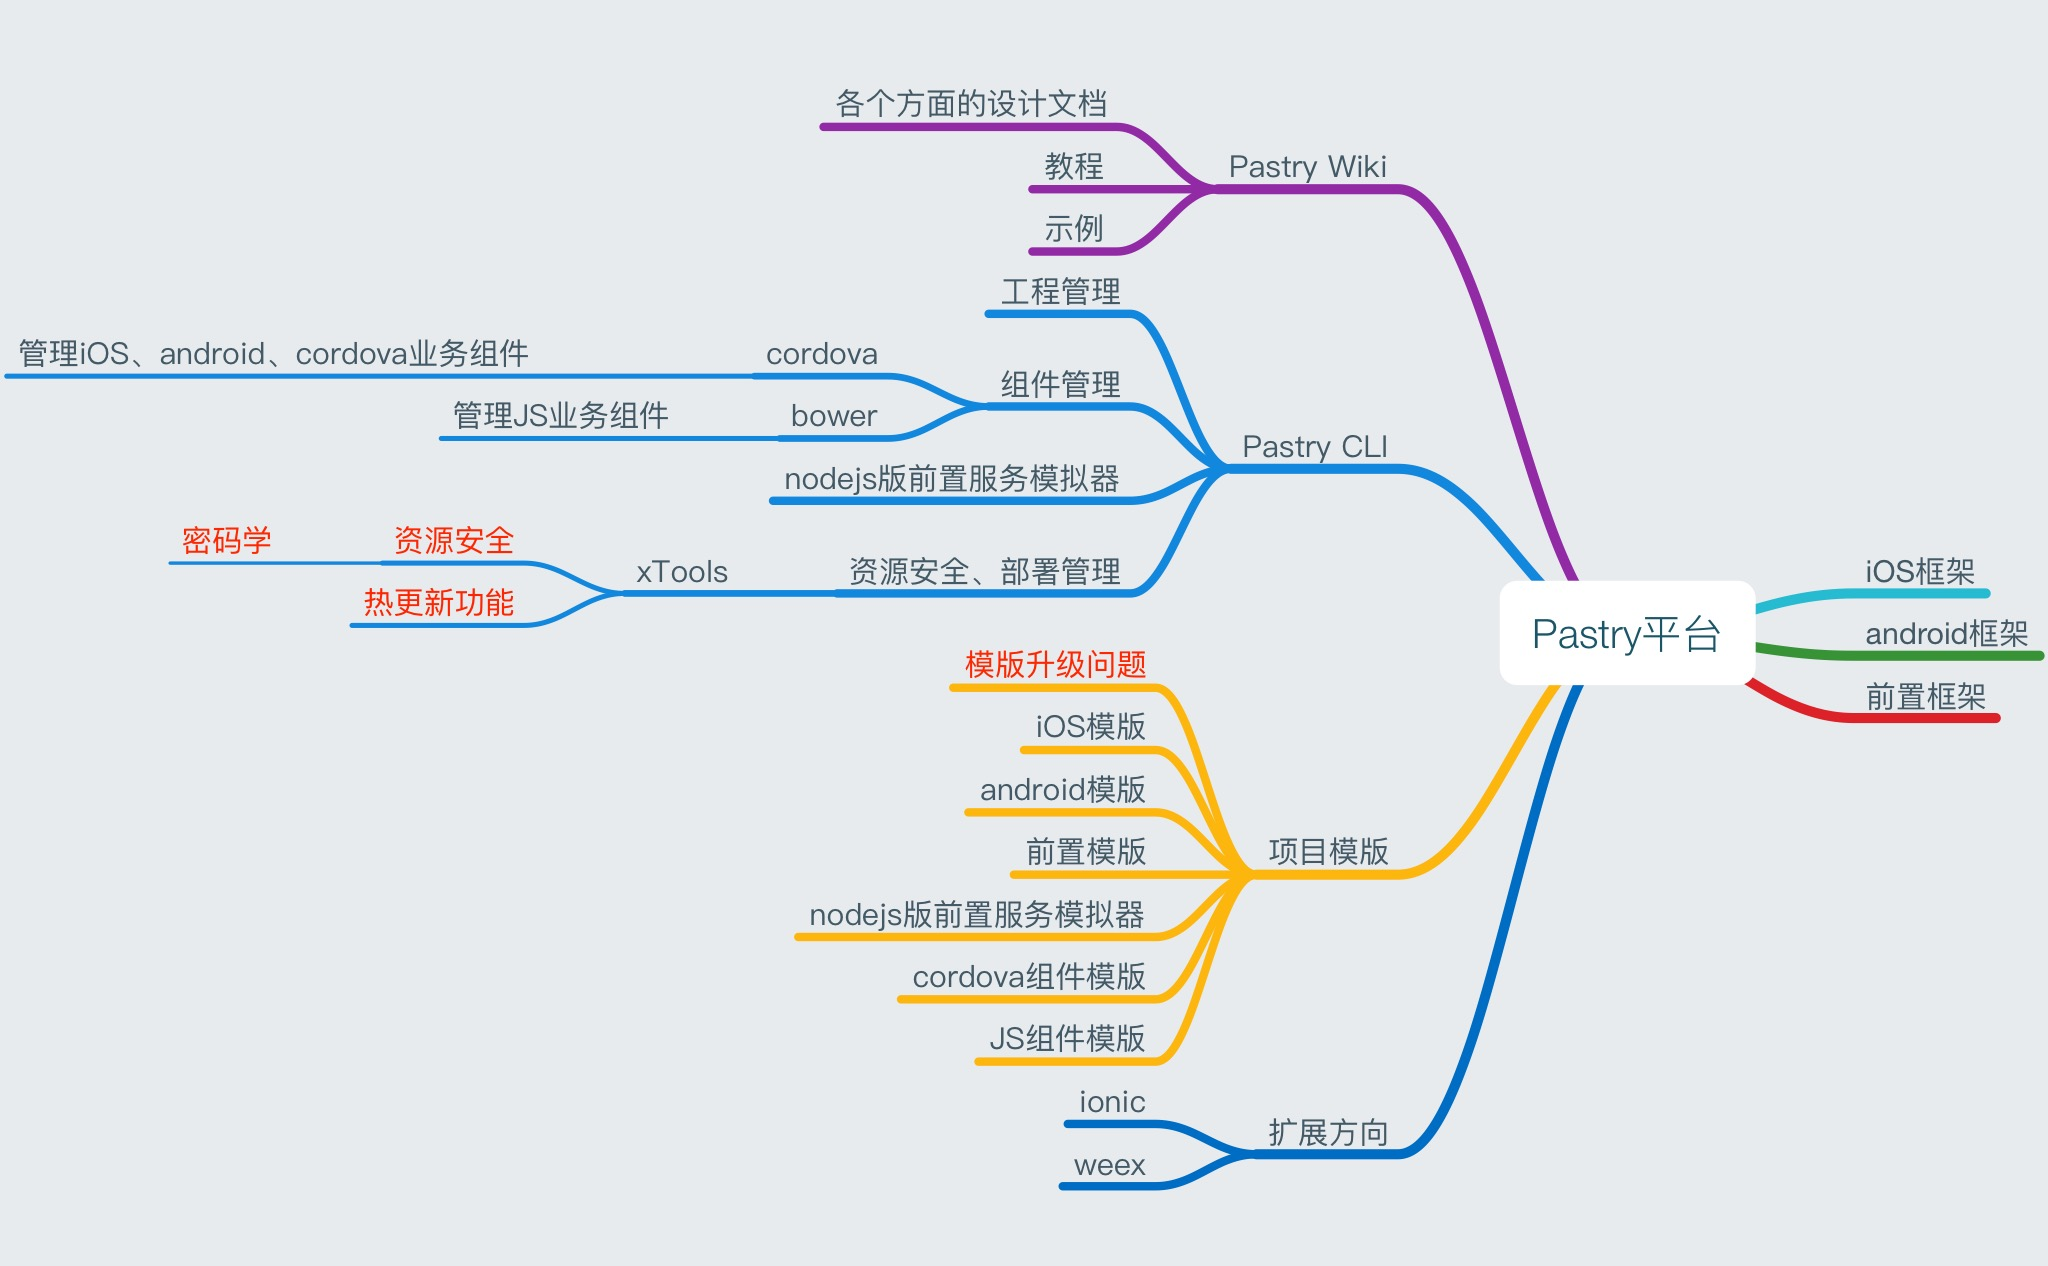
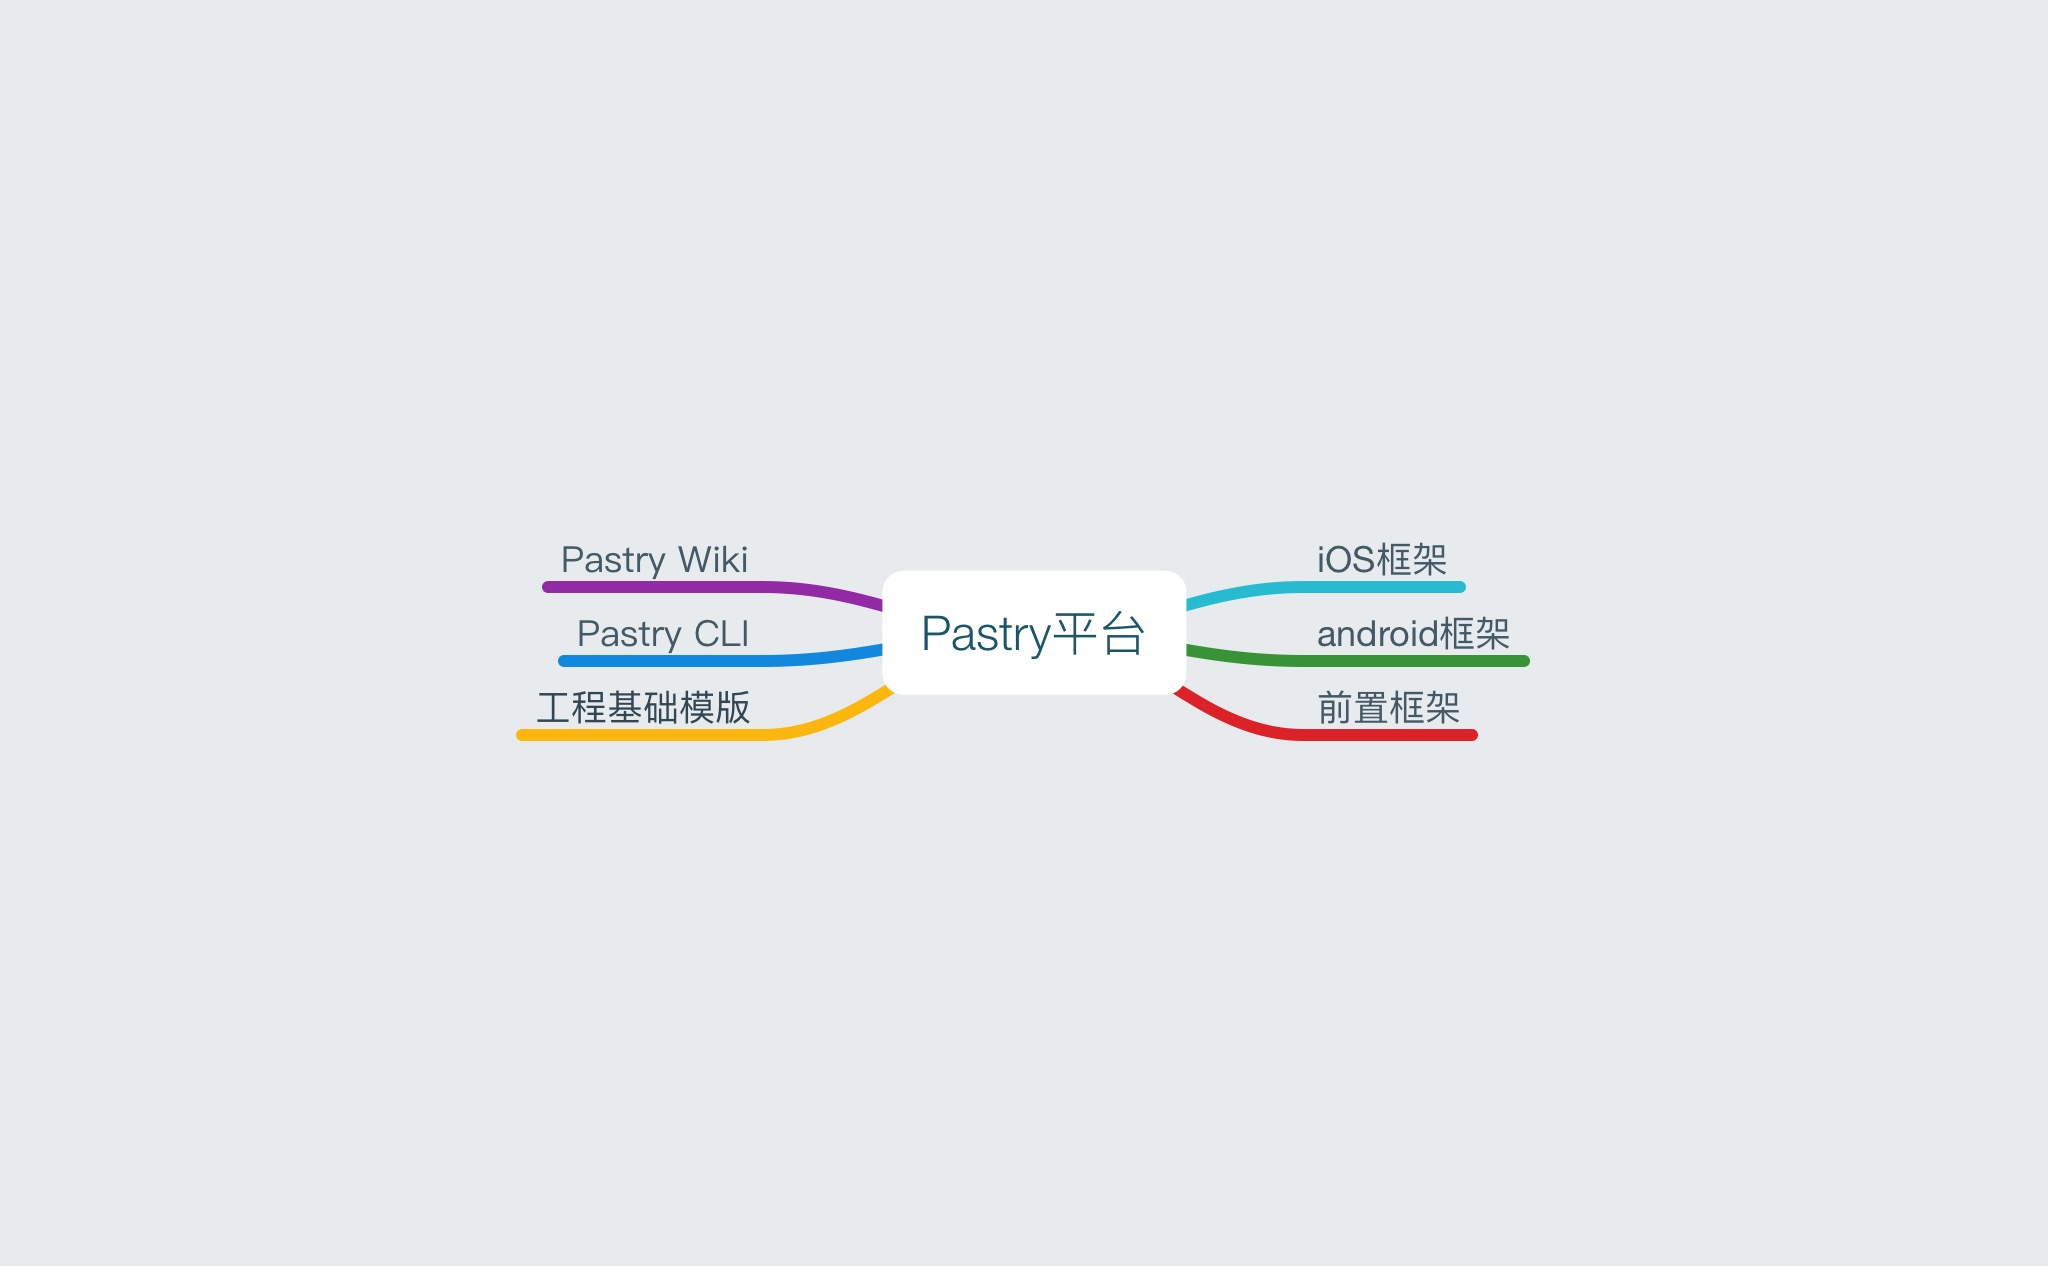
修改 pastry 整体结构 思维导图是用 pastry/issues 里的思维导图

Changed region(s): [[0.0, 0.0616, 1.0, 0.955], [0.7188, 0.2156, 0.75, 0.3697], [0.6875, 0.154, 0.7188, 0.2156]]

diff --git a/pastry/issues/10-思维导图 - Pastry平台整体结构.md b/pastry/issues/10-思维导图 - Pastry平台整体结构.md
@@ -1,11 +1,7 @@
-pastry平台整体结构思维导图
+- Pastry平台 整体结构思维导图
 
-![pastry平台整体结构思维导图](https://www.processon.com/chart_image/57fc94a7e4b0ace1816e458a.png)
+    ![pastry平台整体结构思维导图](https://pastryteam.github.io/pastry/issues/0-images/10-思维导图 - Pastry平台整体结构/思维导图 - Pastry平台整体结构.png)
 
-[pastry平台整体结构思维导图][net_pastry]
+- Pastry平台 工程基础模版思维导图
 
-[在线修改地址][net_pastry_update]
-
-[net_pastry]: https://www.processon.com/view/link/57fc91c4e4b08d4fe9a8e4be
-
-[net_pastry_update]: https://www.processon.com/mind/57fc9015e4b08d4fe9a8b950
+    ![pastry平台工程基础模版思维导图](https://pastryteam.github.io/pastry/issues/0-images/10-思维导图 - Pastry平台整体结构/思维导图 - 工程基础模版.png)
